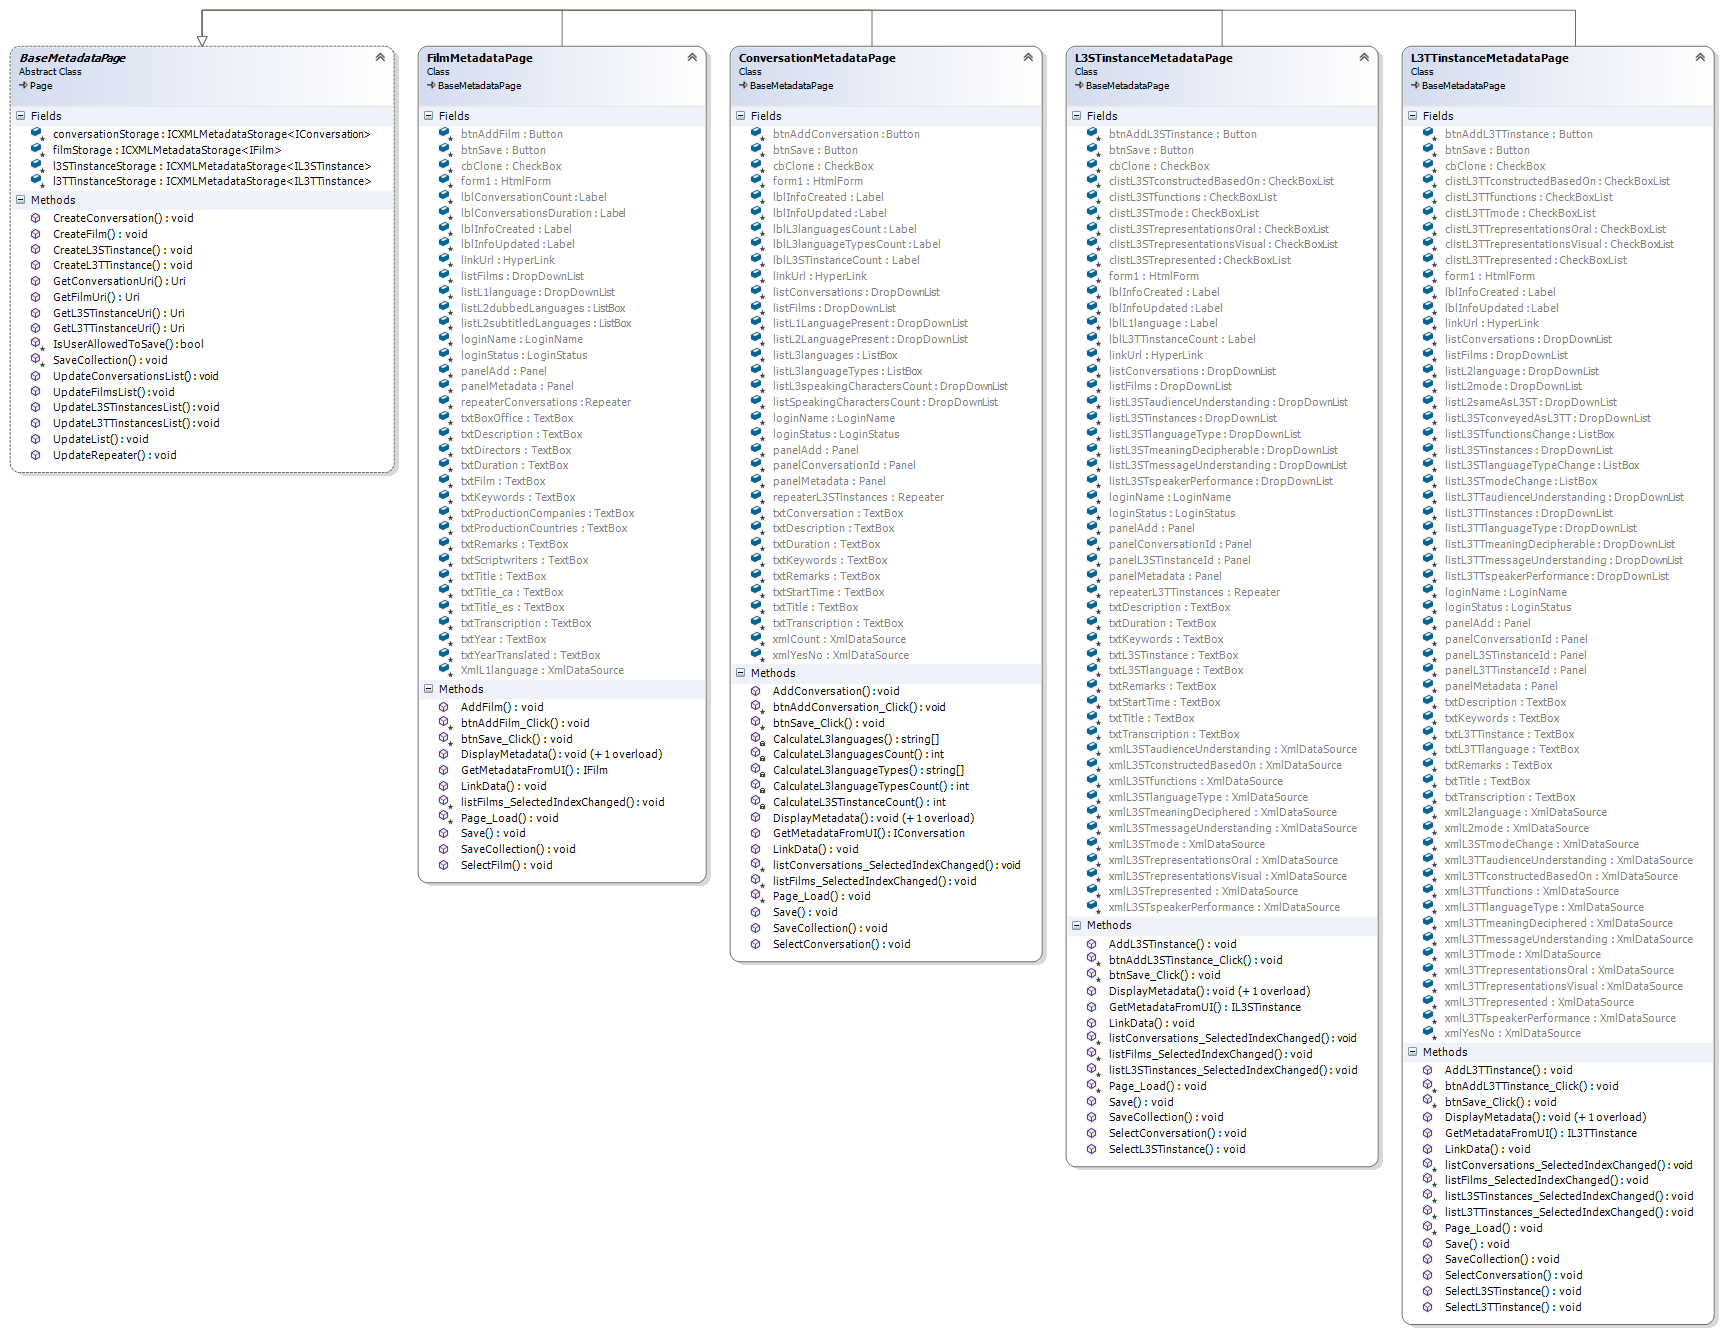
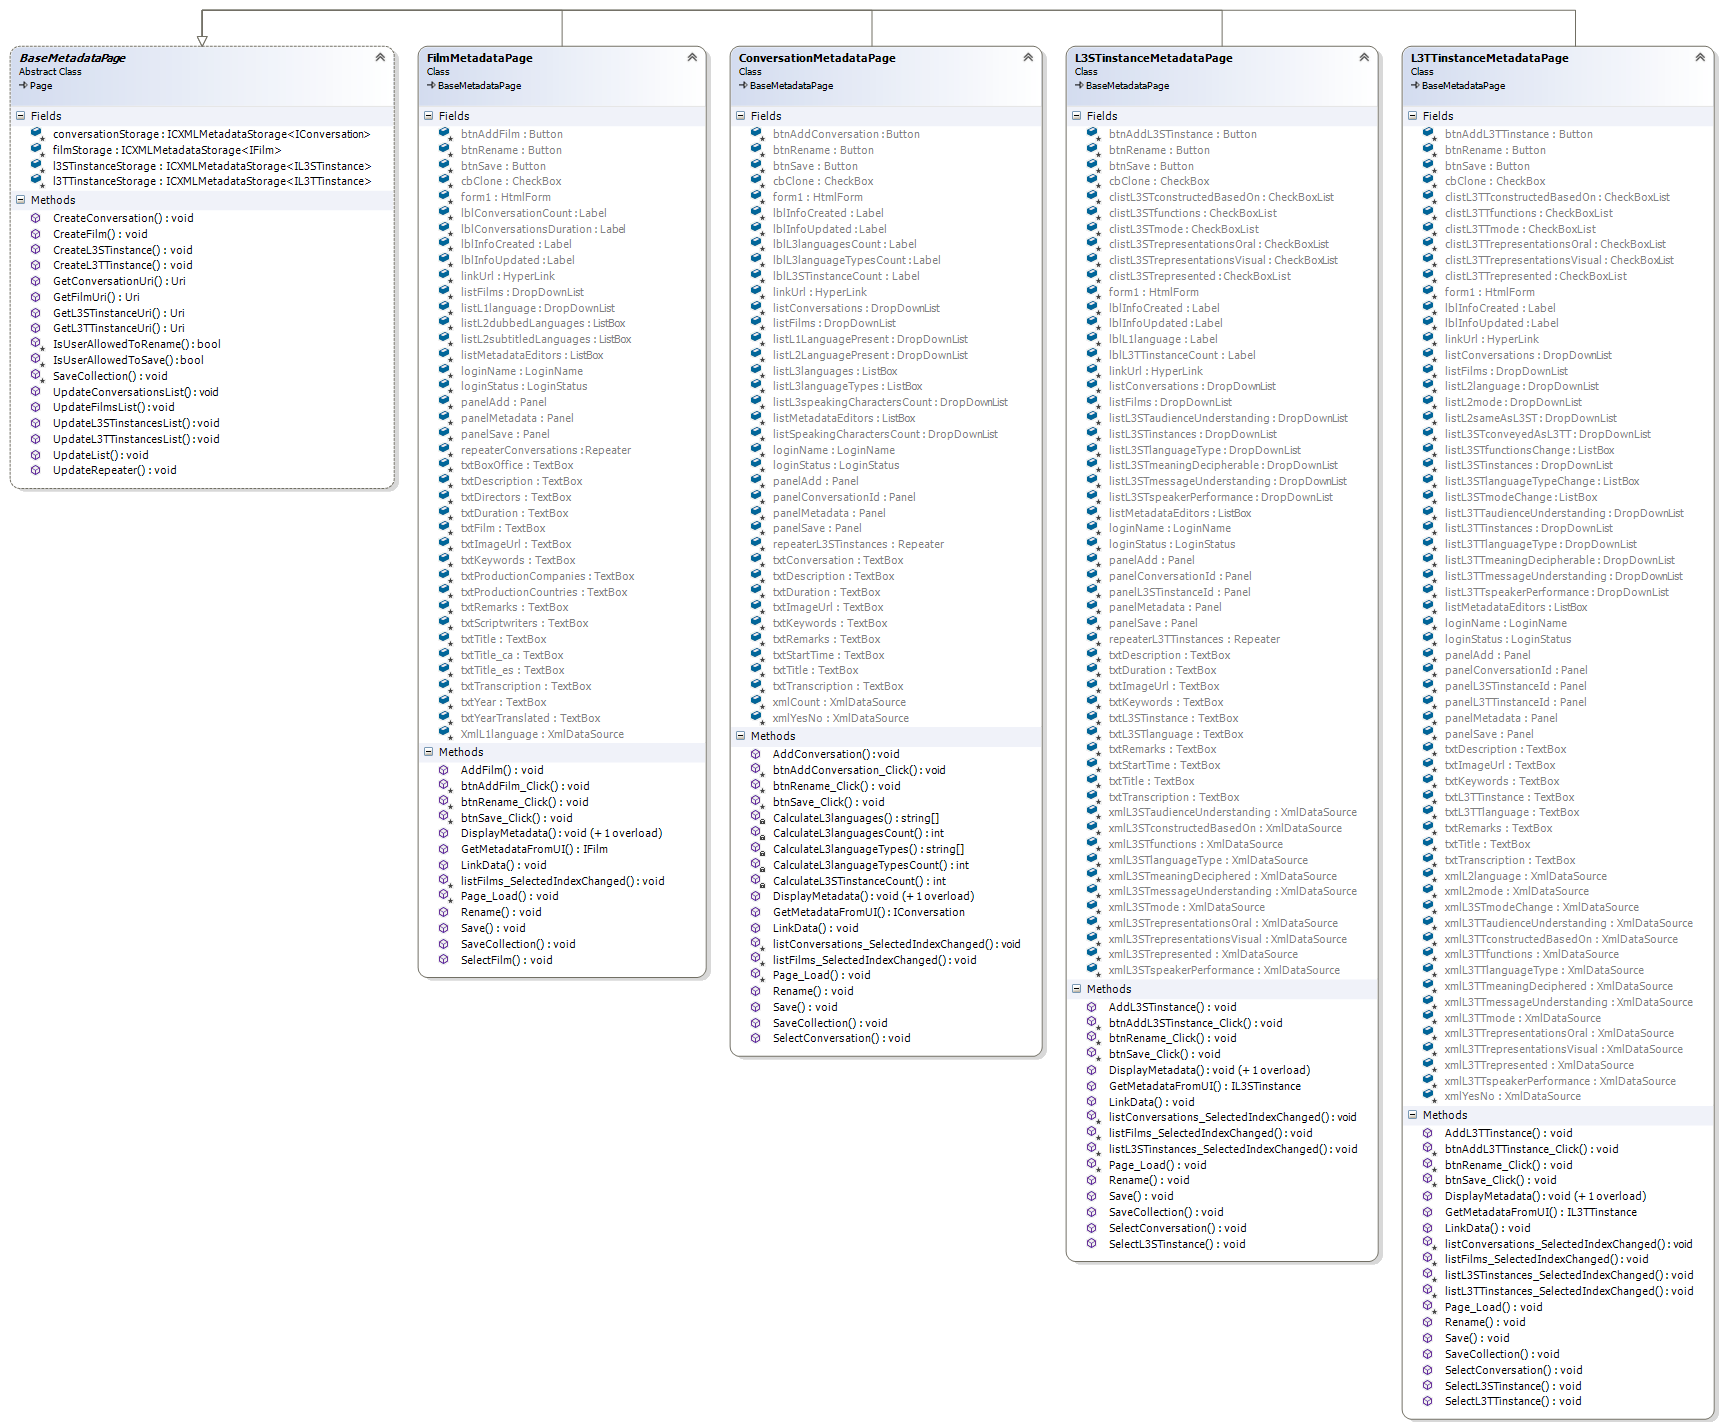
- Added text box for Image URL - Updating MetadataEditors (at every save userid is removed from list of metadata editors and added to the end of it) - Updated diagrams

diff --git a/L3TTinstance/metadata/default.aspx.cs b/L3TTinstance/metadata/default.aspx.cs
@@ -123,15 +123,18 @@ namespace Trafilm.Gallery
 
       //Ignoring the Id field, since some Pivot Tools expect it to be sequential
       UI.Load(txtTitle, metadata.Title);
-      //Not showing any Image field
+      UI.Load(txtImageUrl, metadata.Image);
       UI.Load(linkUrl, GetL3TTinstanceUri(metadata.FilmReferenceId, metadata.ConversationReferenceId, metadata.L3STinstanceReferenceId, key));
       UI.Load(txtDescription, metadata.Description);
 
       //ITrafilmMetadata//
 
       //No need to show L3TTinstance.ReferenceId since we calculate and show the URL, plus the ReferenceId is used as the key and shown at the dropdown list
+
       UI.Load(lblInfoCreated, metadata.InfoCreated.ToString(CXML.DEFAULT_DATETIME_FORMAT));
       UI.Load(lblInfoUpdated, metadata.InfoUpdated.ToString(CXML.DEFAULT_DATETIME_FORMAT));
+
+      UI.LoadContent(listMetadataEditors, metadata.MetadataEditors);
 
       UI.Load(txtTranscription, metadata.Transcription);
 
@@ -192,15 +195,18 @@ namespace Trafilm.Gallery
       //ICXMLMetadata//
 
       metadata.Title = txtTitle.Text;
-      metadata.Image = "../L3TTinstance/image/" + key + ".png";
+      metadata.Image = txtImageUrl.Text;
       metadata.Url = GetL3TTinstanceUri(filmReferenceId, conversationReferenceId, l3STinstanceReferenceId, key);
       metadata.Description = txtDescription.Text;
 
       //ITrafilmMetadata//
 
       metadata.ReferenceId = key;
+
       metadata.InfoCreated = DateTime.ParseExact(lblInfoCreated.Text, CXML.DEFAULT_DATETIME_FORMAT, CultureInfo.InvariantCulture);
       metadata.InfoUpdated = DateTime.ParseExact(lblInfoUpdated.Text, CXML.DEFAULT_DATETIME_FORMAT, CultureInfo.InvariantCulture);
+
+      metadata.MetadataEditors = UI.GetContent(listMetadataEditors);
 
       metadata.Transcription = txtTranscription.Text;
 
@@ -249,6 +255,7 @@ namespace Trafilm.Gallery
     public void Save()
     {
       lblInfoUpdated.Text = DateTime.UtcNow.ToString(CXML.DEFAULT_DATETIME_FORMAT);
+      UI.AppendUserName(listMetadataEditors);
       l3TTinstanceStorage[listL3TTinstances.SelectedValue] = (IL3TTinstance)GetMetadataFromUI();
     }
 

diff --git a/L3STinstance/metadata/default.aspx.cs b/L3STinstance/metadata/default.aspx.cs
@@ -119,15 +119,18 @@ namespace Trafilm.Gallery
 
       //Ignoring the Id field, since some Pivot Tools expect it to be sequential
       UI.Load(txtTitle, metadata.Title);
-      //Not showing any Image field
+      UI.Load(txtImageUrl, metadata.Image);
       UI.Load(linkUrl, GetL3STinstanceUri(metadata.FilmReferenceId, metadata.ConversationReferenceId, key));
       UI.Load(txtDescription, metadata.Description);
 
       //ITrafilmMetadata//
 
       //No need to show L3STinstance.ReferenceId since we calculate and show the URL, plus the ReferenceId is used as the key and shown at the dropdown list
+
       UI.Load(lblInfoCreated, metadata.InfoCreated.ToString(CXML.DEFAULT_DATETIME_FORMAT));
       UI.Load(lblInfoUpdated, metadata.InfoUpdated.ToString(CXML.DEFAULT_DATETIME_FORMAT));
+
+      UI.LoadContent(listMetadataEditors, metadata.MetadataEditors);
 
       UI.Load(txtTranscription, metadata.Transcription);
 
@@ -183,15 +186,18 @@ namespace Trafilm.Gallery
       //ICXMLMetadata//
 
       metadata.Title = txtTitle.Text;
-      metadata.Image = "../L3STinstance/image/" + key + ".png";
+      metadata.Image = txtImageUrl.Text;
       metadata.Url = GetL3STinstanceUri(filmReferenceId, conversationReferenceId, key);
       metadata.Description = txtDescription.Text;
 
       //ITrafilmMetadata//
 
       metadata.ReferenceId = key;
+
       metadata.InfoCreated = DateTime.ParseExact(lblInfoCreated.Text, CXML.DEFAULT_DATETIME_FORMAT, CultureInfo.InvariantCulture);
       metadata.InfoUpdated = DateTime.ParseExact(lblInfoUpdated.Text, CXML.DEFAULT_DATETIME_FORMAT, CultureInfo.InvariantCulture);
+
+      metadata.MetadataEditors = UI.GetContent(listMetadataEditors);
 
       metadata.Transcription = txtTranscription.Text;
 
@@ -236,6 +242,7 @@ namespace Trafilm.Gallery
     public void Save()
     {
       lblInfoUpdated.Text = DateTime.UtcNow.ToString(CXML.DEFAULT_DATETIME_FORMAT);
+      UI.AppendUserName(listMetadataEditors);
       l3STinstanceStorage[listL3STinstances.SelectedValue] = (IL3STinstance)GetMetadataFromUI();
     }
 

diff --git a/conversation/metadata/default.aspx.cs b/conversation/metadata/default.aspx.cs
@@ -104,15 +104,18 @@ namespace Trafilm.Gallery
 
       //Ignoring the Id field, since some Pivot Tools expect it to be sequential
       UI.Load(txtTitle, metadata.Title);
-      //Not showing any Image field
+      UI.Load(txtImageUrl, metadata.Image);
       UI.Load(linkUrl, GetConversationUri(metadata.FilmReferenceId, key));
       UI.Load(txtDescription, metadata.Description);
 
       //ITrafilmMetadata//
 
       //No need to show conversation.ReferenceId since we calculate and show the URL, plus the ReferenceId is used as the key and shown at the dropdown list
+
       UI.Load(lblInfoCreated, metadata.InfoCreated.ToString(CXML.DEFAULT_DATETIME_FORMAT));
       UI.Load(lblInfoUpdated, metadata.InfoUpdated.ToString(CXML.DEFAULT_DATETIME_FORMAT));
+
+      UI.LoadContent(listMetadataEditors, metadata.MetadataEditors);
 
       UI.Load(txtTranscription, metadata.Transcription);
 
@@ -157,7 +160,7 @@ namespace Trafilm.Gallery
       //ICXMLMetadata//
 
       metadata.Title = txtTitle.Text;
-      metadata.Image = "../conversation/image/" + key + ".png";
+      metadata.Image = txtImageUrl.Text;
       metadata.Url = GetConversationUri(filmReferenceId, key);
       metadata.Description = txtDescription.Text;
 
@@ -167,6 +170,8 @@ namespace Trafilm.Gallery
 
       metadata.InfoCreated = DateTime.ParseExact(lblInfoCreated.Text, CXML.DEFAULT_DATETIME_FORMAT, CultureInfo.InvariantCulture);
       metadata.InfoUpdated = DateTime.ParseExact(lblInfoUpdated.Text, CXML.DEFAULT_DATETIME_FORMAT, CultureInfo.InvariantCulture);
+
+      metadata.MetadataEditors = UI.GetContent(listMetadataEditors);
 
       metadata.Transcription = txtTranscription.Text;
 
@@ -197,6 +202,7 @@ namespace Trafilm.Gallery
     public void Save()
     {
       lblInfoUpdated.Text = DateTime.UtcNow.ToString(CXML.DEFAULT_DATETIME_FORMAT);
+      UI.AppendUserName(listMetadataEditors);
       conversationStorage[listConversations.SelectedValue] = GetMetadataFromUI();
     }
 

diff --git a/film/metadata/default.aspx.cs b/film/metadata/default.aspx.cs
@@ -108,15 +108,18 @@ namespace Trafilm.Gallery
 
       //Ignoring the Id field, since some Pivot Tools expect it to be sequential
       UI.Load(txtTitle, metadata.Title);
-      //Not showing any Image field
+      UI.Load(txtImageUrl, metadata.Image);
       UI.Load(linkUrl, GetFilmUri(key));
       UI.Load(txtDescription, metadata.Description);
 
       //ITrafilmMetadata//
 
       //No need to show film.ReferenceId since we calculate and show the URL, plus the ReferenceId is used as the key and shown at the dropdown list
+
       UI.Load(lblInfoCreated, metadata.InfoCreated.ToString(CXML.DEFAULT_DATETIME_FORMAT));
       UI.Load(lblInfoUpdated, metadata.InfoUpdated.ToString(CXML.DEFAULT_DATETIME_FORMAT));
+
+      UI.LoadContent(listMetadataEditors, metadata.MetadataEditors);
 
       UI.Load(txtTranscription, metadata.Transcription);
 
@@ -166,7 +169,7 @@ namespace Trafilm.Gallery
       //ICXMLMetadata//
 
       metadata.Title = txtTitle.Text;
-      metadata.Image = "../film/image/" + key + ".png";
+      metadata.Image = txtImageUrl.Text;
       metadata.Url = GetFilmUri(key);
       metadata.Description = txtDescription.Text;
 
@@ -176,6 +179,8 @@ namespace Trafilm.Gallery
 
       metadata.InfoCreated = DateTime.ParseExact(lblInfoCreated.Text, CXML.DEFAULT_DATETIME_FORMAT, CultureInfo.InvariantCulture);
       metadata.InfoUpdated = DateTime.ParseExact(lblInfoUpdated.Text, CXML.DEFAULT_DATETIME_FORMAT, CultureInfo.InvariantCulture);
+
+      metadata.MetadataEditors = UI.GetContent(listMetadataEditors);
 
       metadata.Transcription = txtTranscription.Text;
 
@@ -214,6 +219,7 @@ namespace Trafilm.Gallery
     public void Save()
     {
       lblInfoUpdated.Text = DateTime.UtcNow.ToString(CXML.DEFAULT_DATETIME_FORMAT);
+      UI.AppendUserName(listMetadataEditors);
       filmStorage[listFilms.SelectedValue] = (IFilm)GetMetadataFromUI();
     }
 

diff --git a/utils/UI.cs b/utils/UI.cs
@@ -1,10 +1,11 @@
 //Project: Trafilm.Gallery (http://github.com/zoomicon/Trafilm.Gallery)
 //Filename: UI.cs
-//Version: 20160530
+//Version: 20160610
 
 using System;
 using System.Collections.Generic;
 using System.Linq;
+using System.Web.Security;
 using System.Web.UI.WebControls;
 
 namespace Trafilm.Gallery
@@ -17,12 +18,20 @@ namespace Trafilm.Gallery
       return (string.IsNullOrWhiteSpace(txt.Text)) ? null : txt.Text.Split(new char[] { ',' }, StringSplitOptions.RemoveEmptyEntries);
     }
 
-    public static string[] GetSelected(ListControl clist)
+    public static string[] GetSelected(ListControl list)
     {
       List<string> result = new List<string>();
-      foreach (ListItem item in clist.Items)
+      foreach (ListItem item in list.Items)
         if (item.Selected && !string.IsNullOrWhiteSpace(item.Value))
           result.Add(item.Value);
+      return result.ToArray();
+    }
+
+    public static string[] GetContent(ListControl list)
+    {
+      List<string> result = new List<string>();
+      foreach (ListItem item in list.Items)
+        result.Add(item.Value);
       return result.ToArray();
     }
 
@@ -74,6 +83,12 @@ namespace Trafilm.Gallery
       textbox.Text = string.Join(",", values);
     }
 
+    public static void AppendUserName(ListControl list)
+    {
+      string userName = Membership.GetUser().UserName;
+      list.Items.Remove(userName);
+      list.Items.Add(userName);
+    }
   }
   
 }
